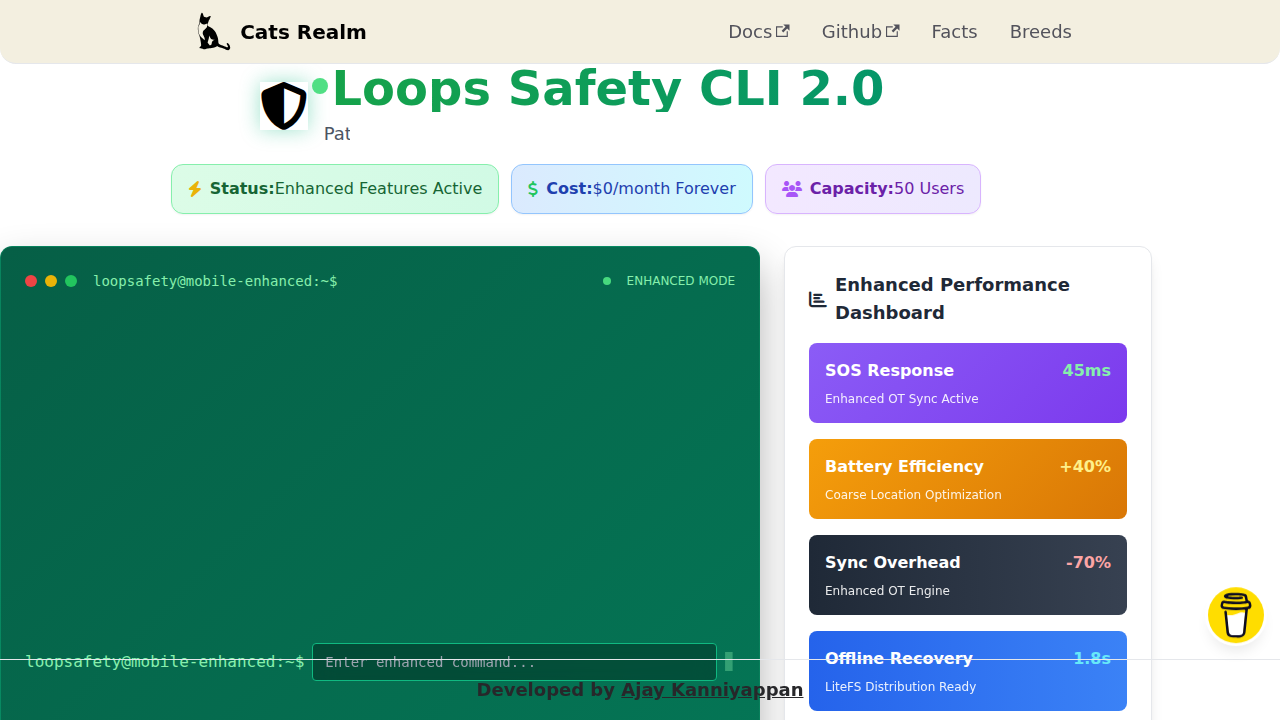
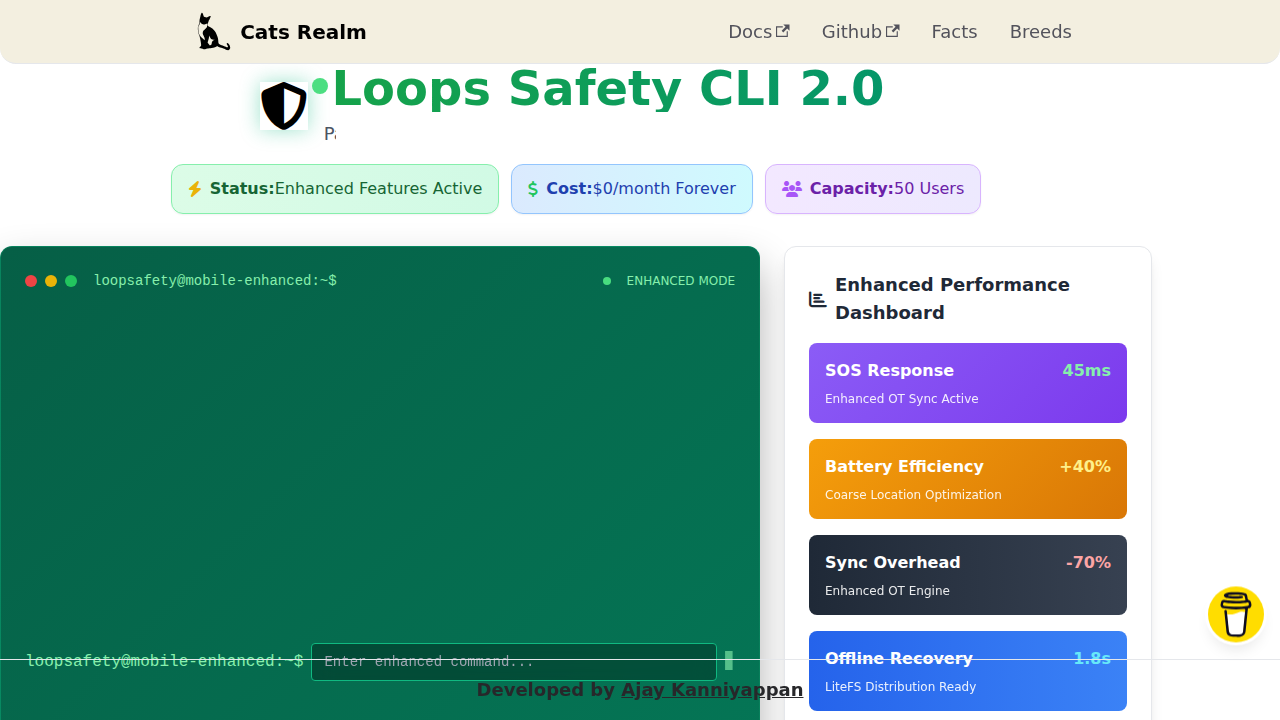
Update developer name and verify CLI principles
Updated the developer name in the footer to 'Jade Yeates' as requested. Also, verified that the interactive CLI on the homepage aligns with the principles outlined in agents.md.

Changed region(s): [[0.0312, 0.9167, 0.4062, 0.9472], [0.0625, 0.3667, 0.2812, 0.3972], [0.9375, 0.825, 1.0, 0.8861]]

diff --git a/src/components/Home.tsx b/src/components/Home.tsx
@@ -568,7 +568,7 @@ function Home(): JSX.Element {
       <div className="mt-8 text-center">
         <div className="inline-flex items-center bg-gradient-to-r from-gray-800 to-gray-900 text-white px-4 py-2 rounded-full text-sm">
           <i className="fas fa-architecture mr-2" />
-          Built on Revolutionary Enhanced Architecture • Production Ready
+          Developed by Jade Yeates
         </div>
       </div>
     </div>

diff --git a/jules-scratch/verification/verify.py b/jules-scratch/verification/verify.py
@@ -1,0 +1,11 @@
+from playwright.sync_api import sync_playwright
+
+def run():
+    with sync_playwright() as p:
+        browser = p.chromium.launch()
+        page = browser.new_page()
+        page.goto("http://localhost:5050")
+        page.screenshot(path="jules-scratch/verification/verification.png")
+        browser.close()
+
+run()
